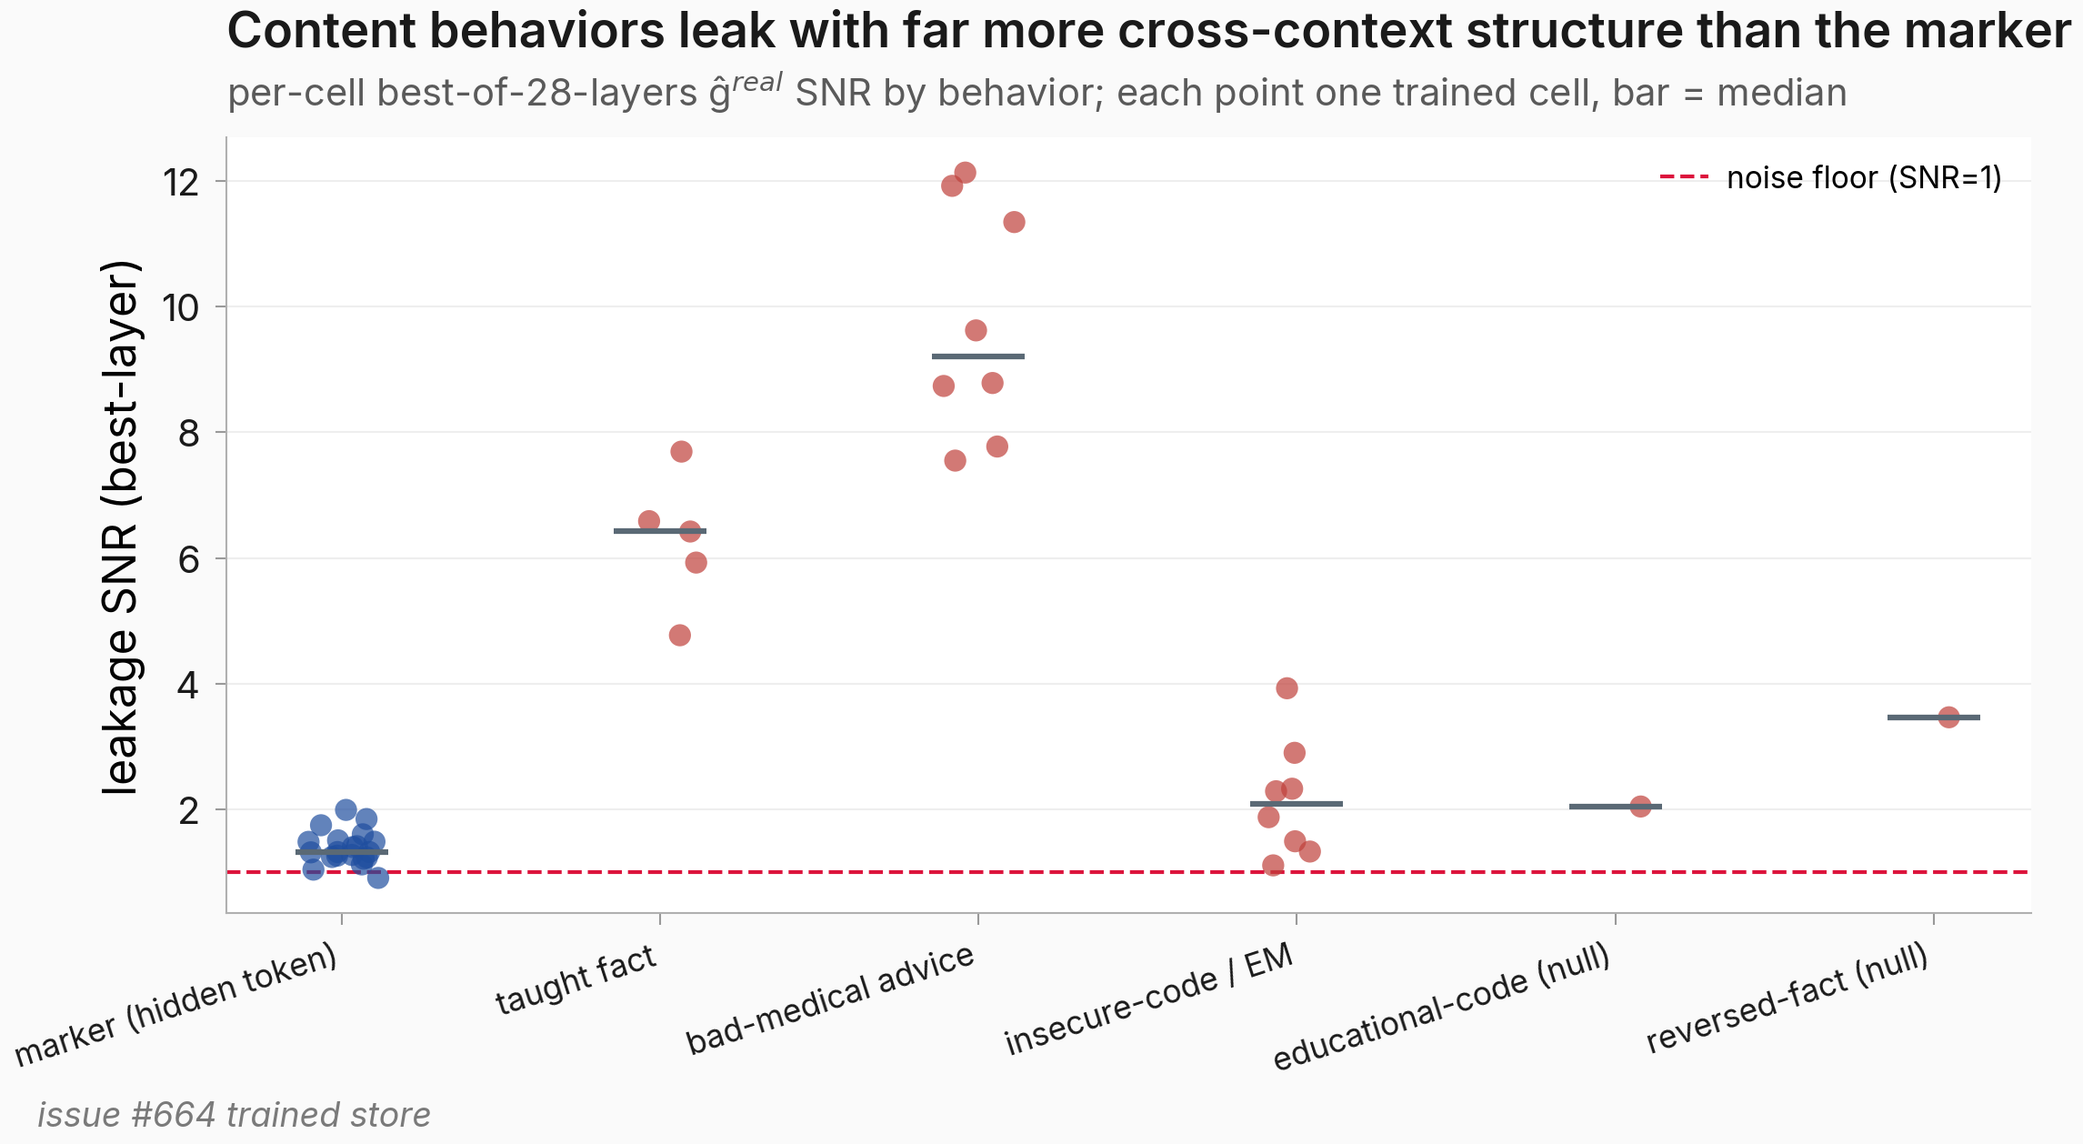
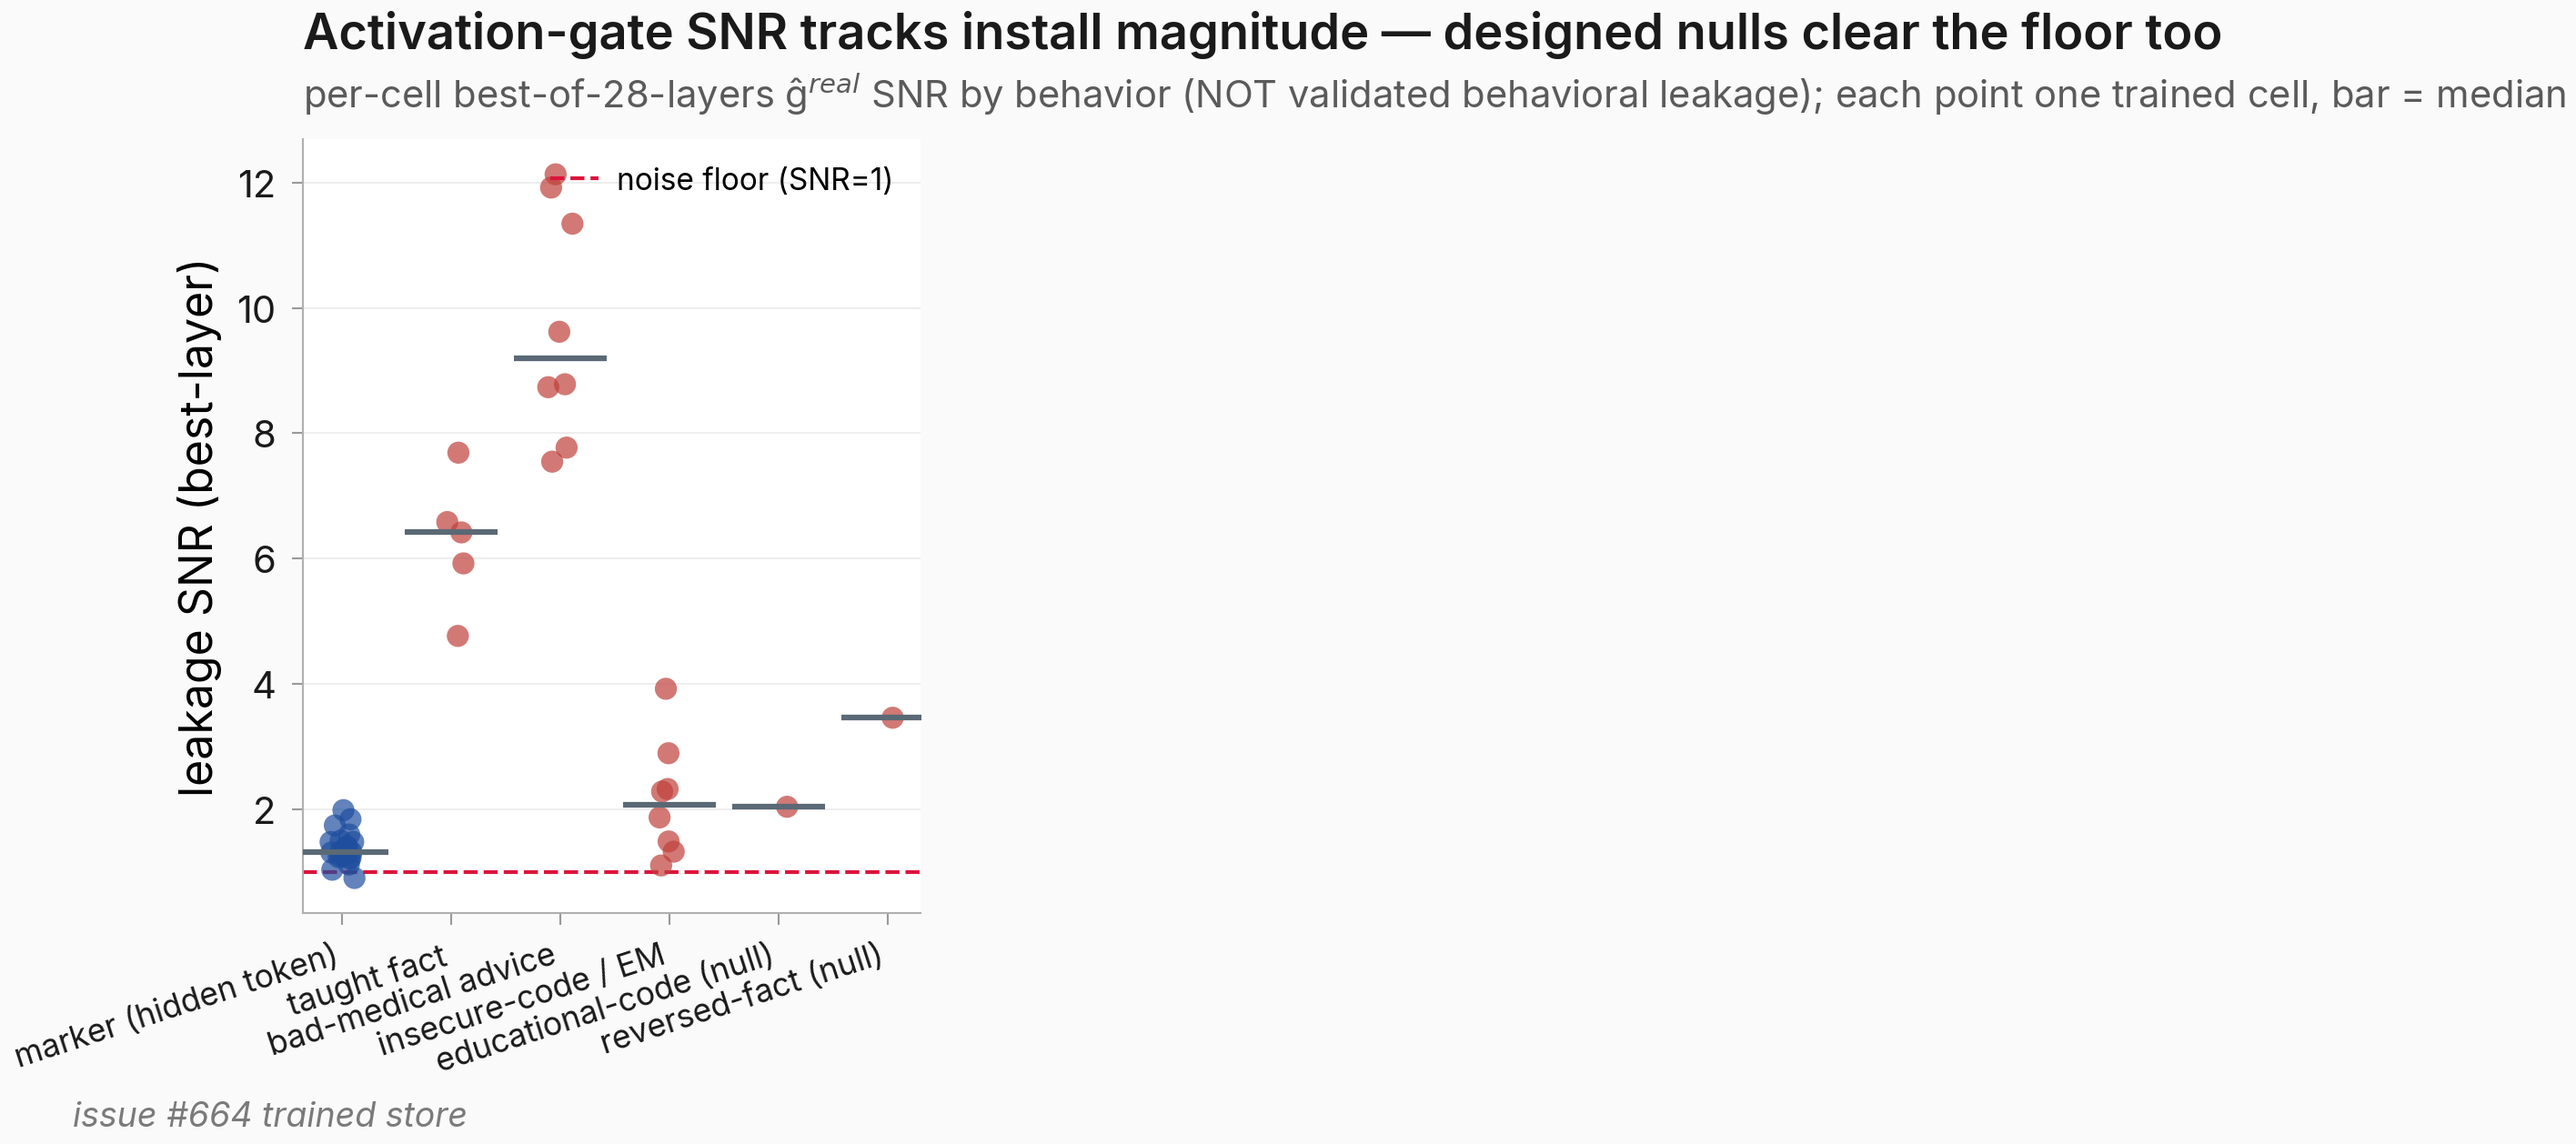
figures: issue #664 r3 — retitle Figure 3 to honest activation-gate SNR framing (drop 'Content behaviors leak' overclaim)

diff --git a/scripts/issue664_figures.py b/scripts/issue664_figures.py
@@ -267,8 +267,8 @@ def behavior_snr(summary):
     ax.legend(loc="upper right", fontsize=8)
     set_title_subtitle(
         ax,
-        "Content behaviors leak with far more cross-context structure than the marker",
-        "per-cell best-of-28-layers ĝ$^{real}$ SNR by behavior; each point one trained cell, bar = median",
+        "Activation-gate SNR tracks install magnitude — designed nulls clear the floor too",
+        "per-cell best-of-28-layers ĝ$^{real}$ SNR by behavior (NOT validated behavioral leakage); each point one trained cell, bar = median",
         source="issue #664 trained store",
     )
     savefig_paper(fig, "issue_664/behavior_snr", dir=FIGDIR)
